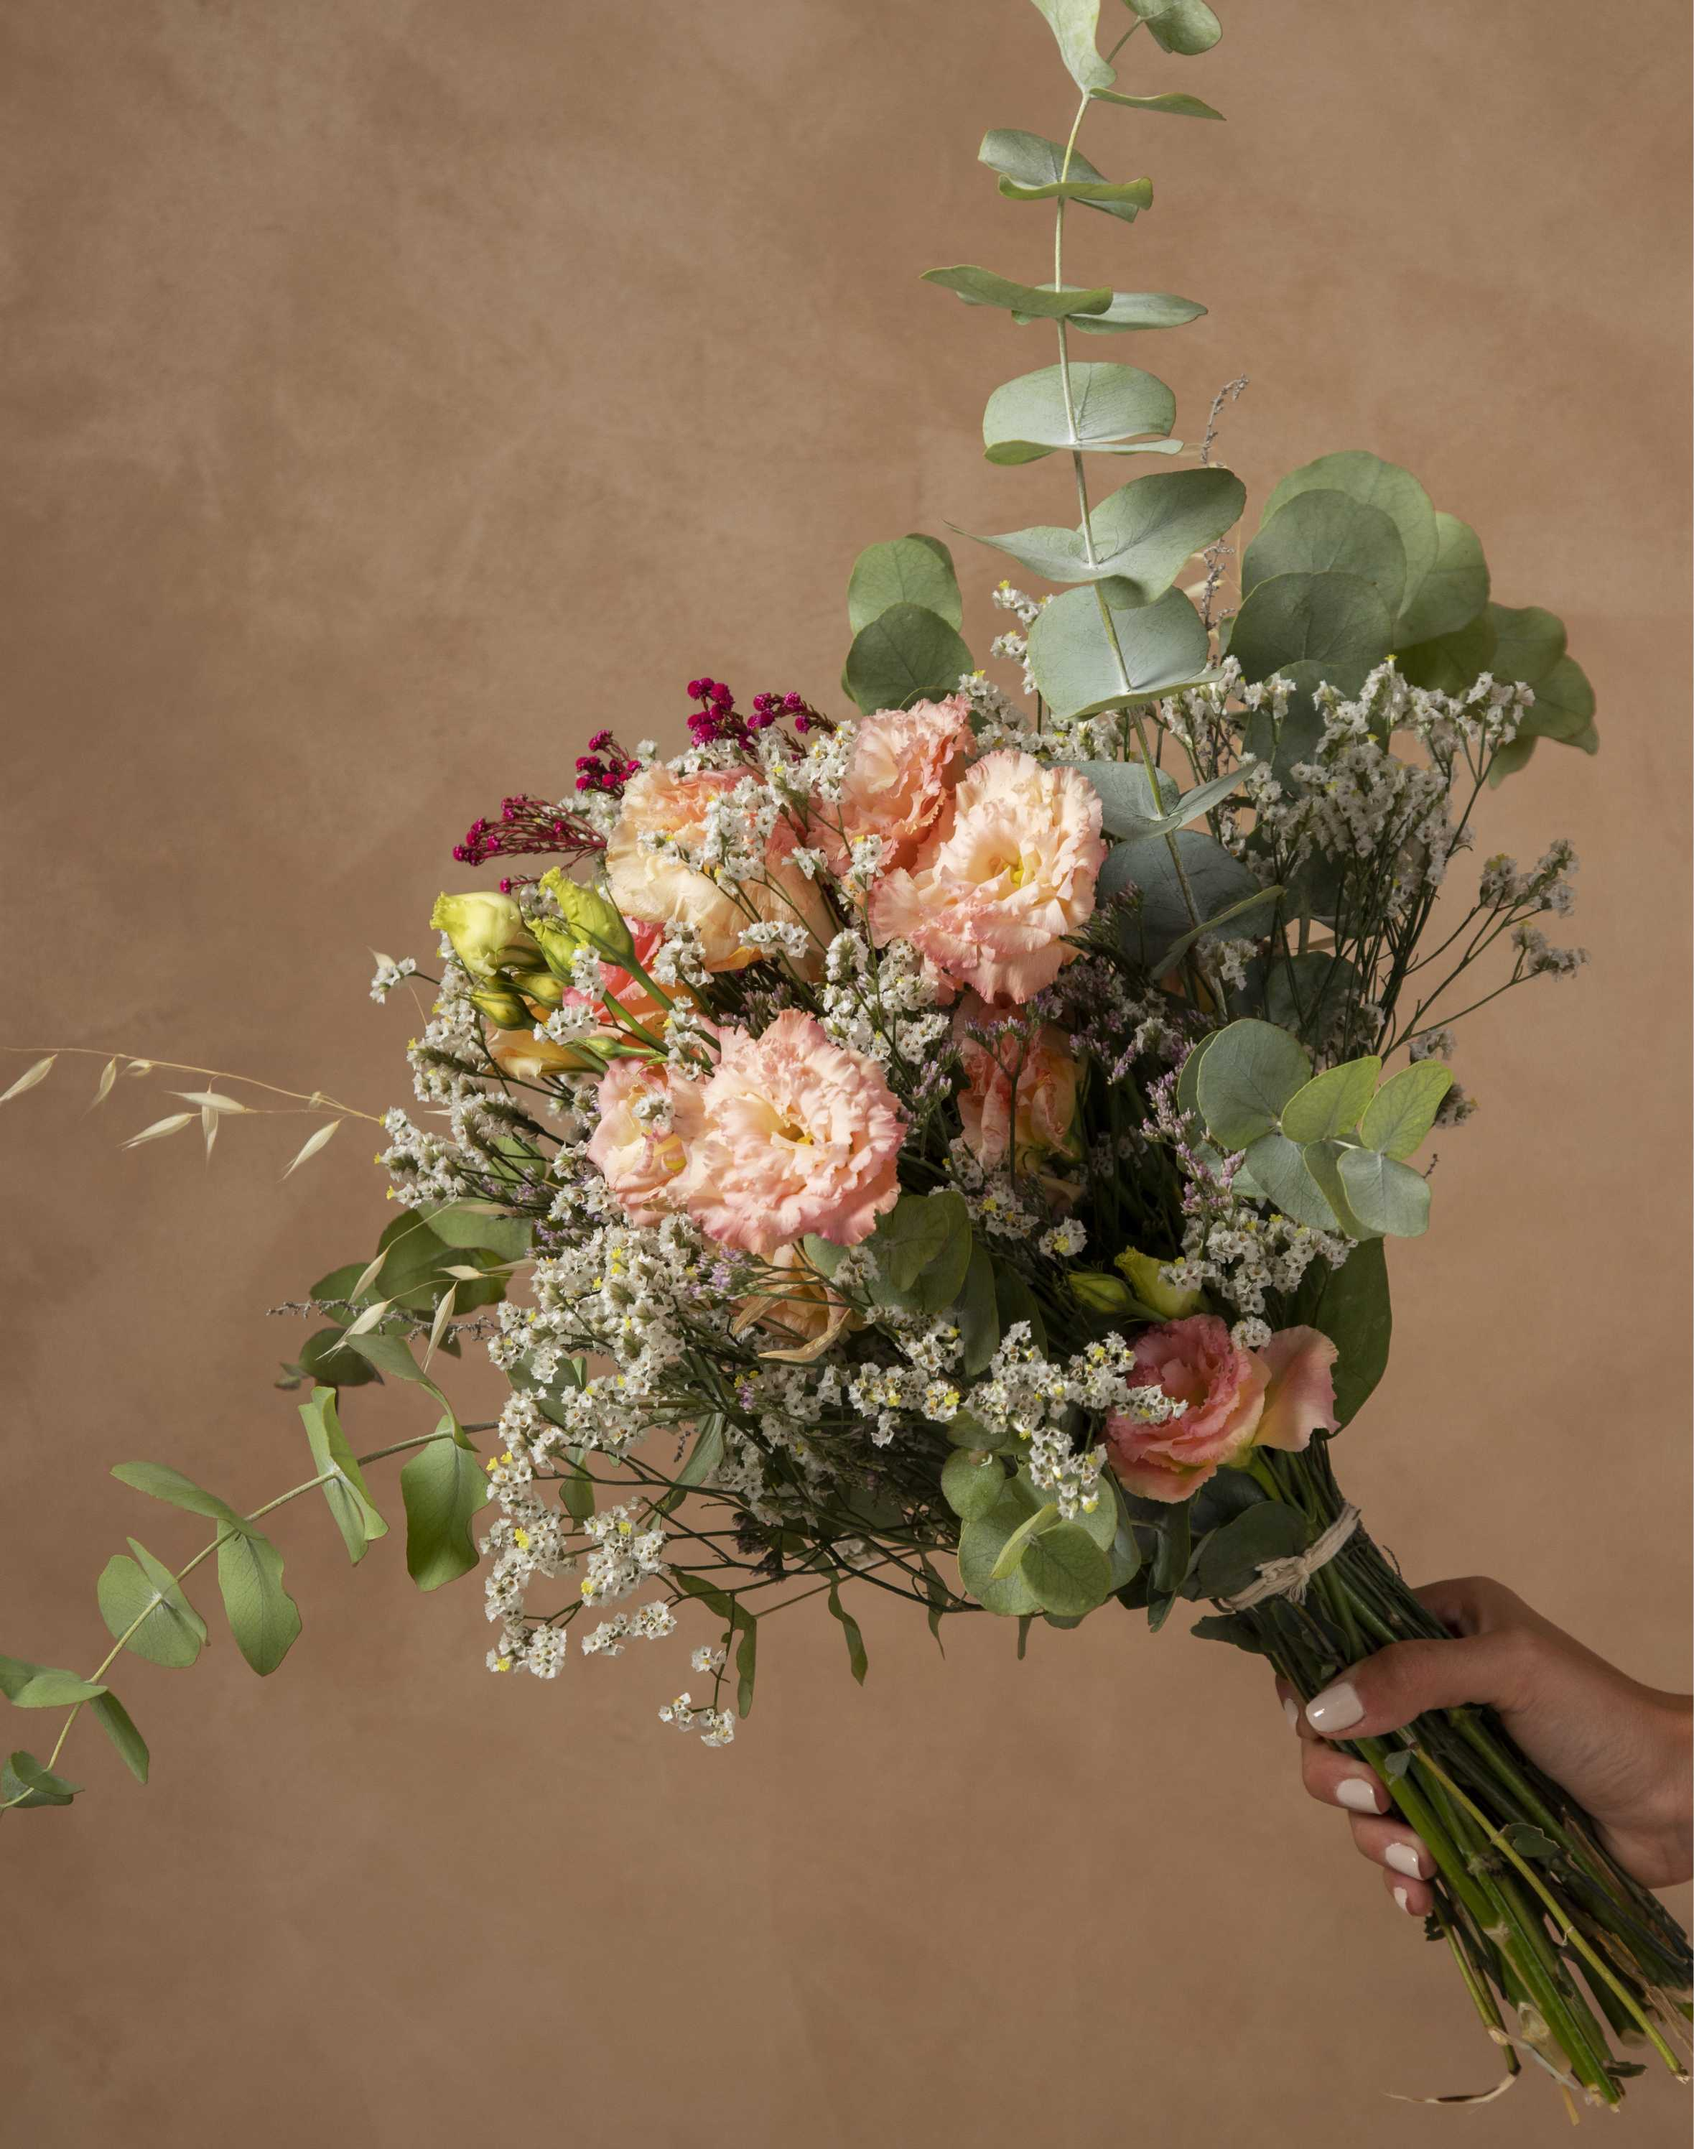
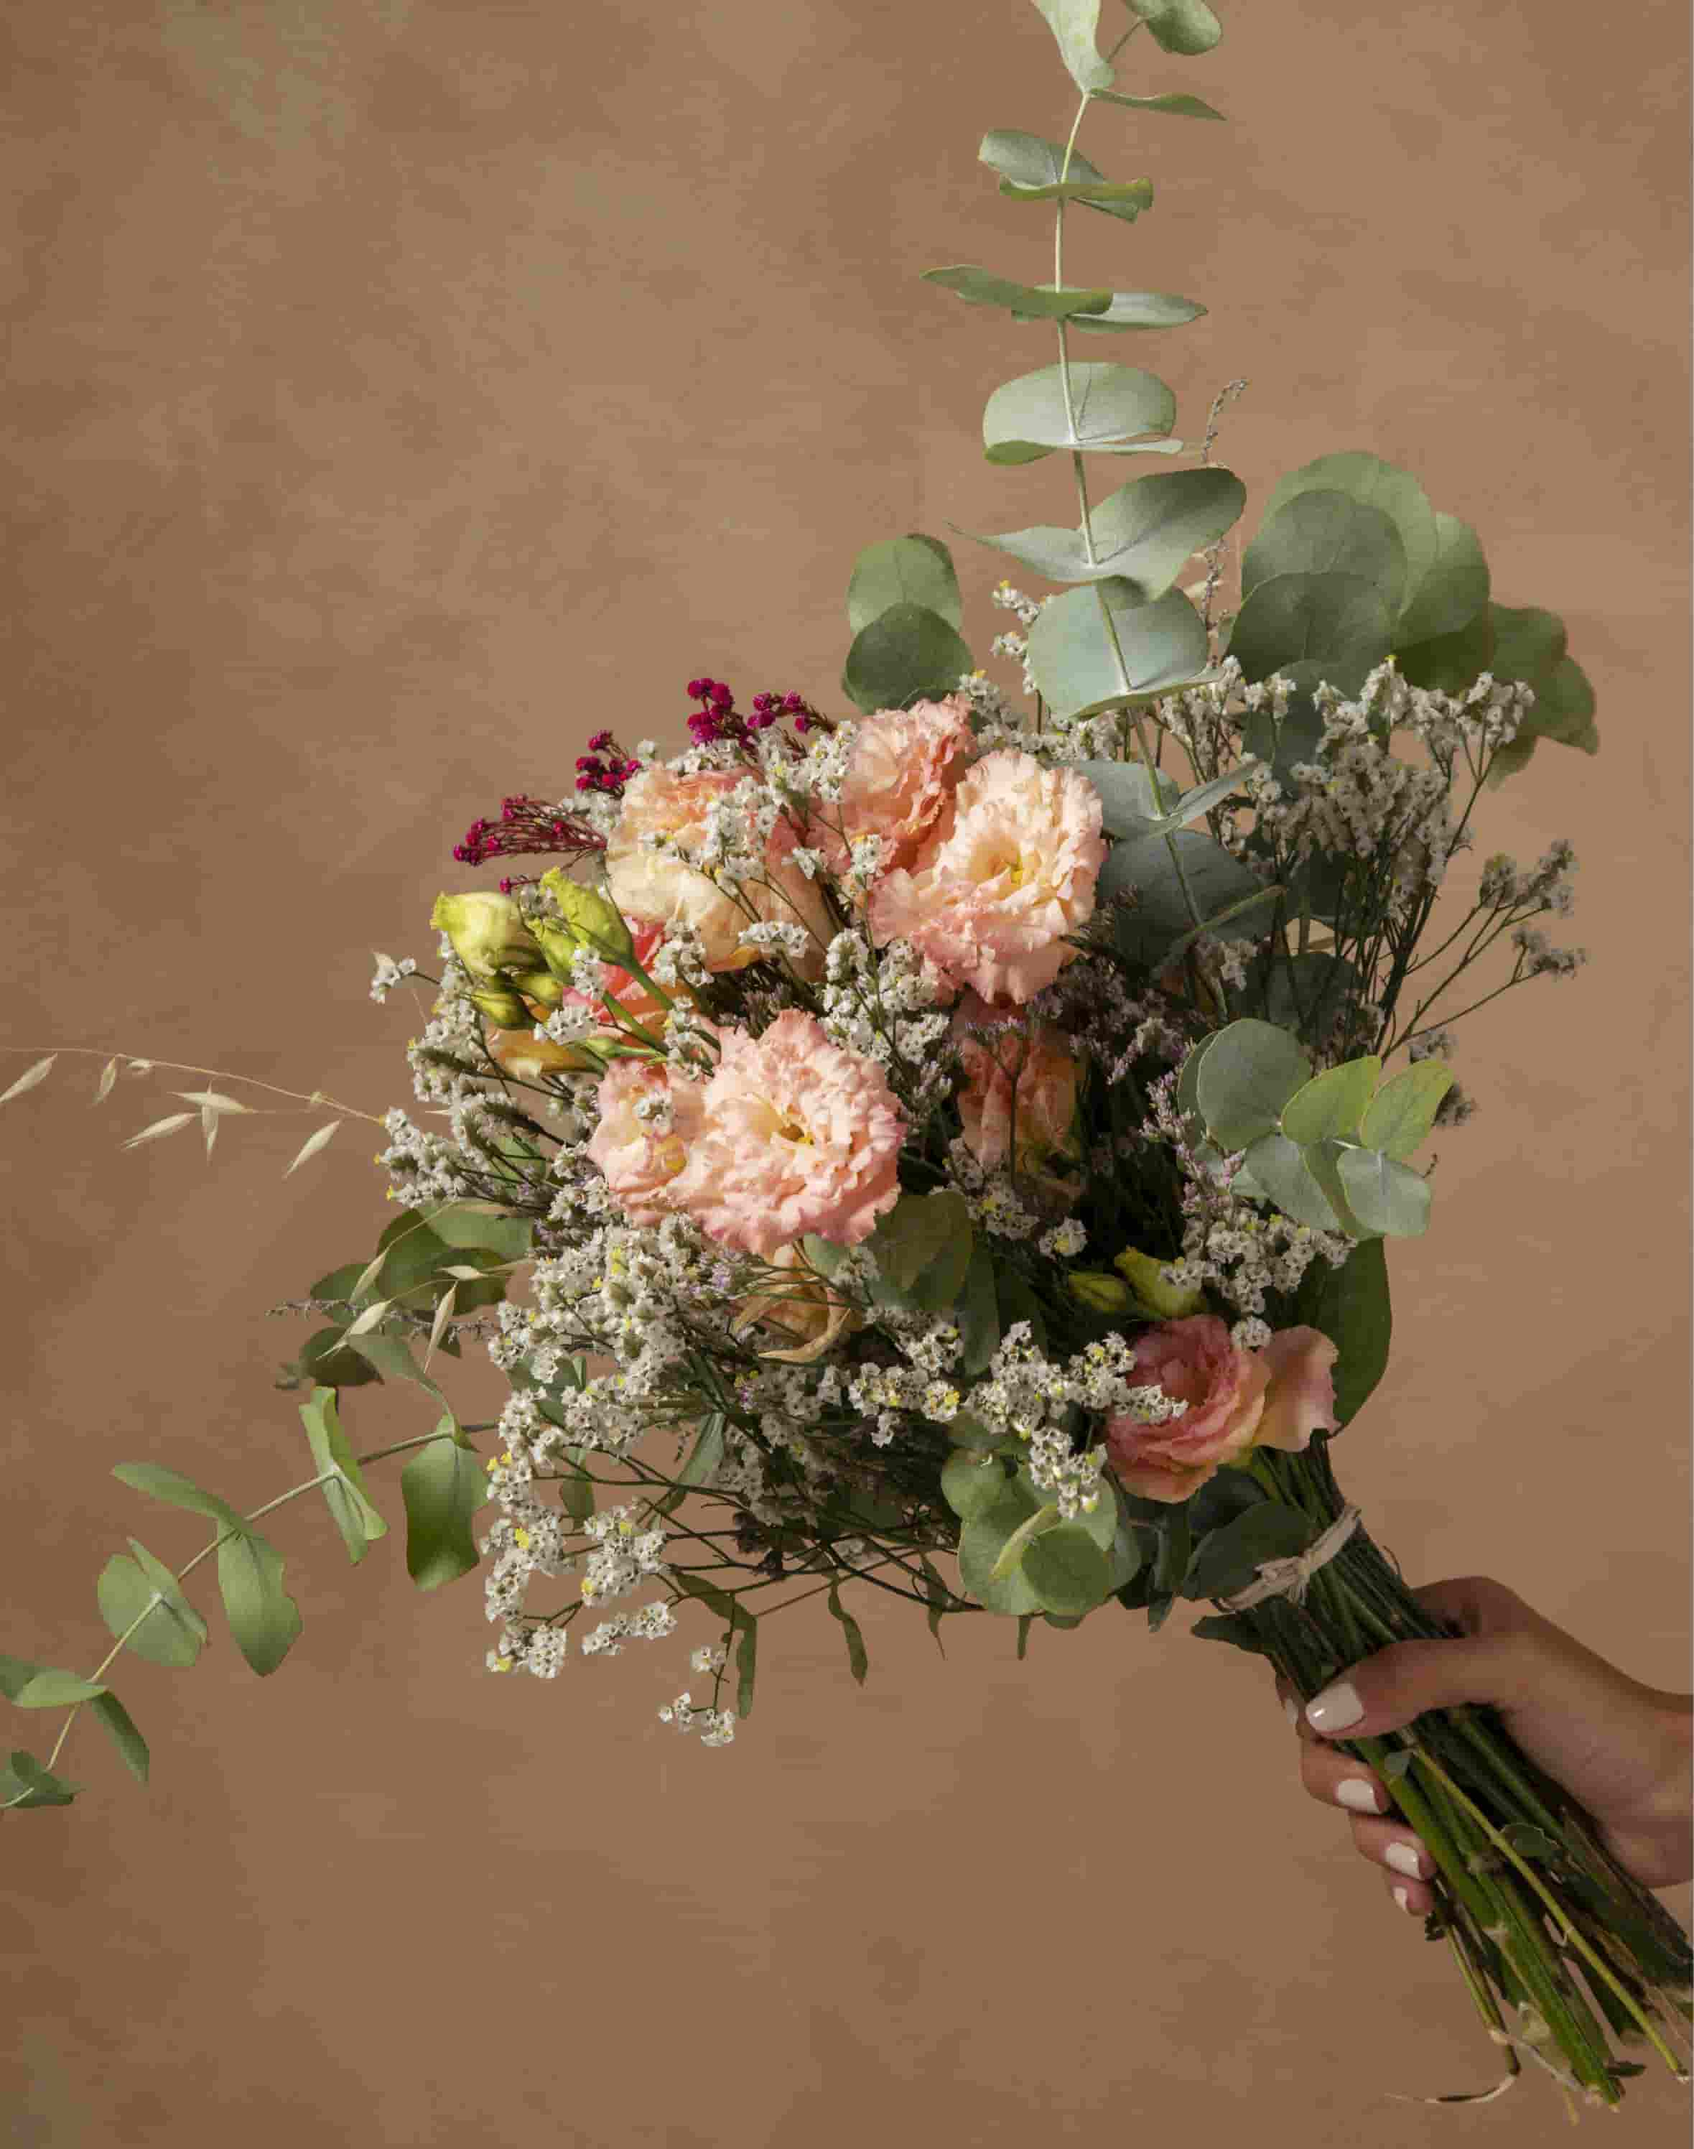
compress images

diff --git a/templates/base.html b/templates/base.html
@@ -45,7 +45,7 @@
 
            <!-- Center logo -->
             <a class="navbar-brand mx-auto" href="{% url 'landing' %}">
-              <img src="{% static 'images/logo3.png' %}" alt="Logo">
+              <img src="{% static 'images/logo3.jpg' %}" alt="Logo">
             </a>
 
             <div class="d-flex align-items-center">
